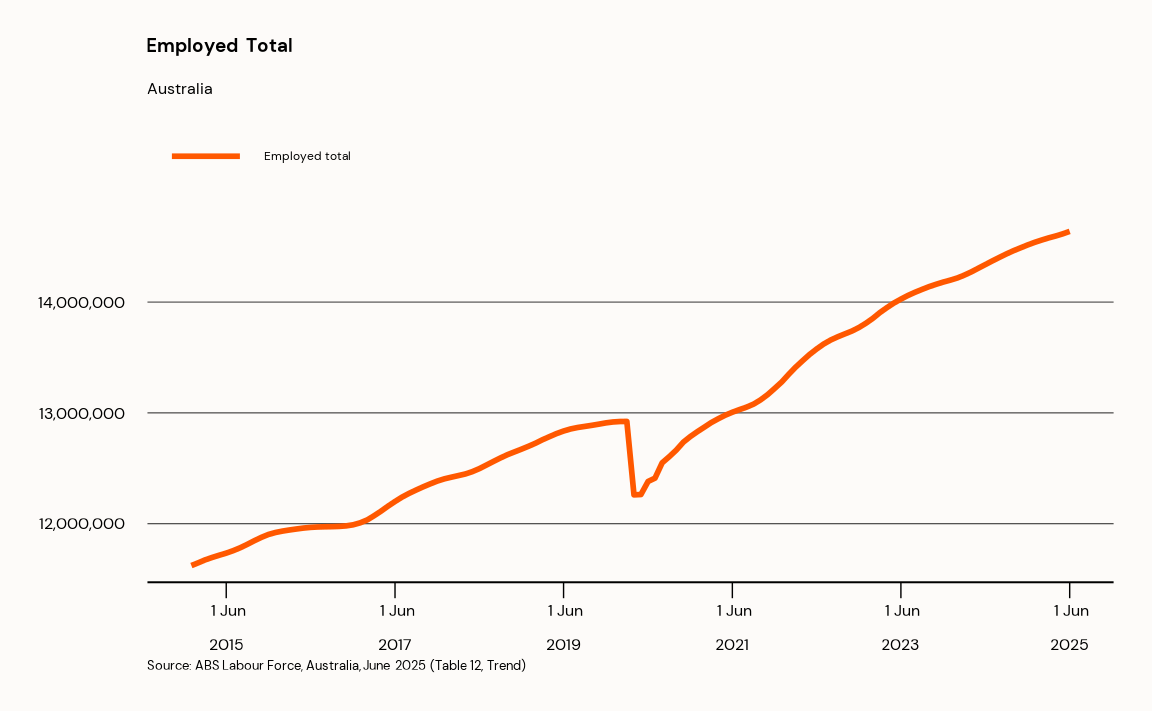
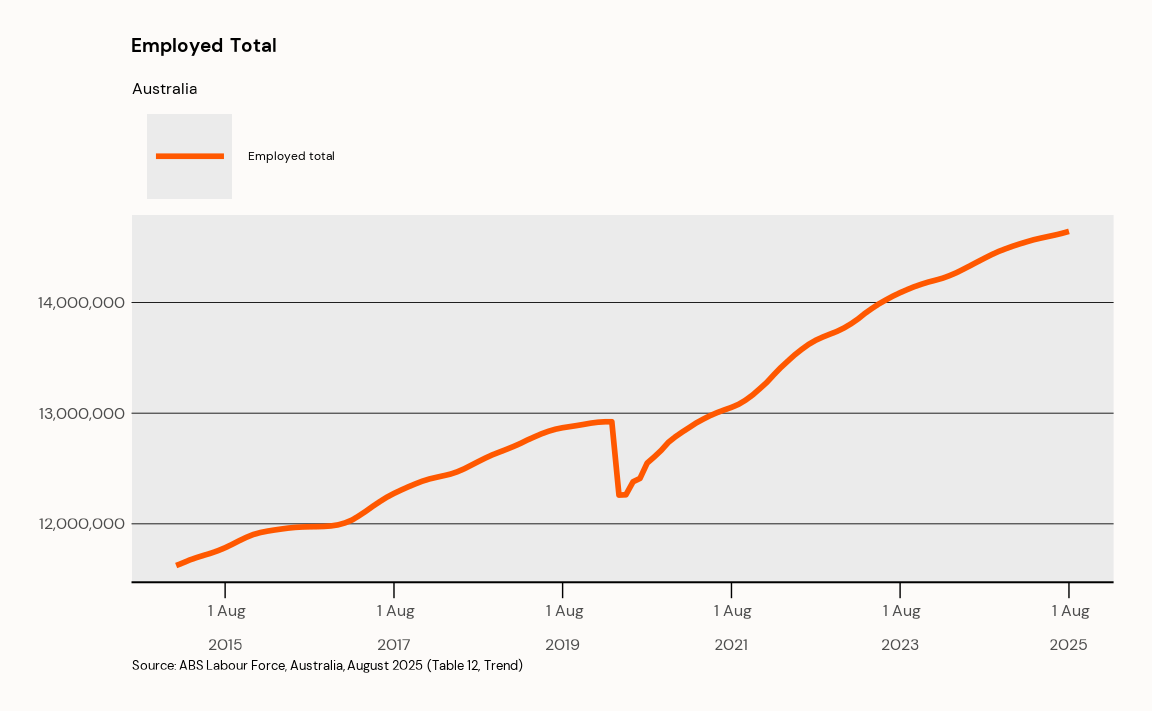
Deploying to gh-pages from @ amwu-nrc/reportabs@0d1d19ab23d6390500568992baa6a73c0621bae3 🚀

diff --git a/reference/value_at.html b/reference/value_at.html
@@ -75,22 +75,22 @@ If only at_year is specified, the value is averaged over the year (Not yet imple
     <h2 id="ref-examples">Examples<a class="anchor" aria-label="anchor" href="#ref-examples"></a></h2>
     <div class="sourceCode"><pre class="sourceCode r"><code><span class="r-in"><span><span class="kw"><a href="https://rdrr.io/r/base/library.html" class="external-link">library</a></span><span class="op">(</span><span class="va"><a href="https://amwu-nrc.github.io/reportabs/">reportabs</a></span><span class="op">)</span></span></span>
 <span class="r-in"><span><span class="va">labour_force_briefing</span> <span class="op">&lt;-</span> <span class="fu"><a href="read_absdata.html">read_absdata</a></span><span class="op">(</span><span class="st">"labour_force_briefing"</span><span class="op">)</span></span></span>
-<span class="r-msg co"><span class="r-pr">#&gt;</span> Reading labour_force_briefing file found in /tmp/RtmpaxwHL6</span>
+<span class="r-msg co"><span class="r-pr">#&gt;</span> Reading labour_force_briefing file found in /tmp/RtmpSPTwHF</span>
 <span class="r-in"><span><span class="fu">value_at</span><span class="op">(</span><span class="va">labour_force_briefing</span> , filter_with <span class="op">=</span> <span class="fu"><a href="https://rdrr.io/r/base/list.html" class="external-link">list</a></span><span class="op">(</span>indicator <span class="op">=</span> <span class="st">"Employed total"</span><span class="op">)</span><span class="op">)</span></span></span>
-<span class="r-msg co"><span class="r-pr">#&gt;</span> → No year or month specified. Returning data for 2025 June</span>
+<span class="r-msg co"><span class="r-pr">#&gt;</span> → No year or month specified. Returning data for 2025 August</span>
 <span class="r-out co"><span class="r-pr">#&gt;</span> <span style="color: #949494;"># A tibble: 27 × 7</span></span>
 <span class="r-out co"><span class="r-pr">#&gt;</span>    date       sex     state             series_type       unit  indicator  value</span>
 <span class="r-out co"><span class="r-pr">#&gt;</span>    <span style="color: #949494; font-style: italic;">&lt;date&gt;</span>     <span style="color: #949494; font-style: italic;">&lt;chr&gt;</span>   <span style="color: #949494; font-style: italic;">&lt;chr&gt;</span>             <span style="color: #949494; font-style: italic;">&lt;chr&gt;</span>             <span style="color: #949494; font-style: italic;">&lt;chr&gt;</span> <span style="color: #949494; font-style: italic;">&lt;chr&gt;</span>      <span style="color: #949494; font-style: italic;">&lt;dbl&gt;</span></span>
-<span class="r-out co"><span class="r-pr">#&gt;</span> <span style="color: #BCBCBC;"> 1</span> 2025-06-01 Persons Australia         Seasonally Adjus… 000   Employed… <span style="text-decoration: underline;">14</span>619.</span>
-<span class="r-out co"><span class="r-pr">#&gt;</span> <span style="color: #BCBCBC;"> 2</span> 2025-06-01 Persons New South Wales   Seasonally Adjus… 000   Employed…  <span style="text-decoration: underline;">4</span>475.</span>
-<span class="r-out co"><span class="r-pr">#&gt;</span> <span style="color: #BCBCBC;"> 3</span> 2025-06-01 Persons Victoria          Seasonally Adjus… 000   Employed…  <span style="text-decoration: underline;">3</span>792.</span>
-<span class="r-out co"><span class="r-pr">#&gt;</span> <span style="color: #BCBCBC;"> 4</span> 2025-06-01 Persons Queensland        Seasonally Adjus… 000   Employed…  <span style="text-decoration: underline;">3</span>004.</span>
-<span class="r-out co"><span class="r-pr">#&gt;</span> <span style="color: #BCBCBC;"> 5</span> 2025-06-01 Persons South Australia   Seasonally Adjus… 000   Employed…   977.</span>
-<span class="r-out co"><span class="r-pr">#&gt;</span> <span style="color: #BCBCBC;"> 6</span> 2025-06-01 Persons Western Australia Seasonally Adjus… 000   Employed…  <span style="text-decoration: underline;">1</span>656.</span>
-<span class="r-out co"><span class="r-pr">#&gt;</span> <span style="color: #BCBCBC;"> 7</span> 2025-06-01 Persons Tasmania          Seasonally Adjus… 000   Employed…   284.</span>
-<span class="r-out co"><span class="r-pr">#&gt;</span> <span style="color: #BCBCBC;"> 8</span> 2025-06-01 Males   Australia         Seasonally Adjus… 000   Employed…  <span style="text-decoration: underline;">7</span>601.</span>
-<span class="r-out co"><span class="r-pr">#&gt;</span> <span style="color: #BCBCBC;"> 9</span> 2025-06-01 Males   New South Wales   Seasonally Adjus… 000   Employed…  <span style="text-decoration: underline;">2</span>339.</span>
-<span class="r-out co"><span class="r-pr">#&gt;</span> <span style="color: #BCBCBC;">10</span> 2025-06-01 Males   Victoria          Seasonally Adjus… 000   Employed…  <span style="text-decoration: underline;">1</span>963.</span>
+<span class="r-out co"><span class="r-pr">#&gt;</span> <span style="color: #BCBCBC;"> 1</span> 2025-08-01 Persons Australia         Seasonally Adjus… 000   Employed… <span style="text-decoration: underline;">14</span>627.</span>
+<span class="r-out co"><span class="r-pr">#&gt;</span> <span style="color: #BCBCBC;"> 2</span> 2025-08-01 Persons New South Wales   Seasonally Adjus… 000   Employed…  <span style="text-decoration: underline;">4</span>463.</span>
+<span class="r-out co"><span class="r-pr">#&gt;</span> <span style="color: #BCBCBC;"> 3</span> 2025-08-01 Persons Victoria          Seasonally Adjus… 000   Employed…  <span style="text-decoration: underline;">3</span>818.</span>
+<span class="r-out co"><span class="r-pr">#&gt;</span> <span style="color: #BCBCBC;"> 4</span> 2025-08-01 Persons Queensland        Seasonally Adjus… 000   Employed…  <span style="text-decoration: underline;">2</span>994.</span>
+<span class="r-out co"><span class="r-pr">#&gt;</span> <span style="color: #BCBCBC;"> 5</span> 2025-08-01 Persons South Australia   Seasonally Adjus… 000   Employed…   981.</span>
+<span class="r-out co"><span class="r-pr">#&gt;</span> <span style="color: #BCBCBC;"> 6</span> 2025-08-01 Persons Western Australia Seasonally Adjus… 000   Employed…  <span style="text-decoration: underline;">1</span>640.</span>
+<span class="r-out co"><span class="r-pr">#&gt;</span> <span style="color: #BCBCBC;"> 7</span> 2025-08-01 Persons Tasmania          Seasonally Adjus… 000   Employed…   287.</span>
+<span class="r-out co"><span class="r-pr">#&gt;</span> <span style="color: #BCBCBC;"> 8</span> 2025-08-01 Males   Australia         Seasonally Adjus… 000   Employed…  <span style="text-decoration: underline;">7</span>587.</span>
+<span class="r-out co"><span class="r-pr">#&gt;</span> <span style="color: #BCBCBC;"> 9</span> 2025-08-01 Males   New South Wales   Seasonally Adjus… 000   Employed…  <span style="text-decoration: underline;">2</span>316.</span>
+<span class="r-out co"><span class="r-pr">#&gt;</span> <span style="color: #BCBCBC;">10</span> 2025-08-01 Males   Victoria          Seasonally Adjus… 000   Employed…  <span style="text-decoration: underline;">1</span>976.</span>
 <span class="r-out co"><span class="r-pr">#&gt;</span> <span style="color: #949494;"># ℹ 17 more rows</span></span>
 <span class="r-in"><span></span></span>
 </code></pre></div>

diff --git a/reference/current.html b/reference/current.html
@@ -71,22 +71,22 @@ gender, age, indicator, and series type.</p></dd>
     <h2 id="ref-examples">Examples<a class="anchor" aria-label="anchor" href="#ref-examples"></a></h2>
     <div class="sourceCode"><pre class="sourceCode r"><code><span class="r-in"><span><span class="kw"><a href="https://rdrr.io/r/base/library.html" class="external-link">library</a></span><span class="op">(</span><span class="va"><a href="https://amwu-nrc.github.io/reportabs/">reportabs</a></span><span class="op">)</span></span></span>
 <span class="r-in"><span><span class="va">labour_force_briefing</span> <span class="op">&lt;-</span> <span class="fu"><a href="read_absdata.html">read_absdata</a></span><span class="op">(</span><span class="st">"labour_force_briefing"</span><span class="op">)</span></span></span>
-<span class="r-msg co"><span class="r-pr">#&gt;</span> Reading labour_force_briefing file found in /tmp/RtmpaxwHL6</span>
+<span class="r-msg co"><span class="r-pr">#&gt;</span> Reading labour_force_briefing file found in /tmp/RtmpSPTwHF</span>
 <span class="r-in"><span><span class="fu">current</span><span class="op">(</span><span class="va">labour_force_briefing</span>, <span class="fu"><a href="https://rdrr.io/r/base/list.html" class="external-link">list</a></span><span class="op">(</span>indicator <span class="op">=</span> <span class="st">"Employed total"</span>,</span></span>
 <span class="r-in"><span>series_type <span class="op">=</span> <span class="st">"Seasonally Adjusted"</span><span class="op">)</span><span class="op">)</span></span></span>
 <span class="r-out co"><span class="r-pr">#&gt;</span> <span style="color: #949494;"># A tibble: 27 × 7</span></span>
 <span class="r-out co"><span class="r-pr">#&gt;</span>    date       sex     state             series_type       unit  indicator  value</span>
 <span class="r-out co"><span class="r-pr">#&gt;</span>    <span style="color: #949494; font-style: italic;">&lt;date&gt;</span>     <span style="color: #949494; font-style: italic;">&lt;chr&gt;</span>   <span style="color: #949494; font-style: italic;">&lt;chr&gt;</span>             <span style="color: #949494; font-style: italic;">&lt;chr&gt;</span>             <span style="color: #949494; font-style: italic;">&lt;chr&gt;</span> <span style="color: #949494; font-style: italic;">&lt;chr&gt;</span>      <span style="color: #949494; font-style: italic;">&lt;dbl&gt;</span></span>
-<span class="r-out co"><span class="r-pr">#&gt;</span> <span style="color: #BCBCBC;"> 1</span> 2025-06-01 Persons Australia         Seasonally Adjus… 000   Employed… <span style="text-decoration: underline;">14</span>619.</span>
-<span class="r-out co"><span class="r-pr">#&gt;</span> <span style="color: #BCBCBC;"> 2</span> 2025-06-01 Persons New South Wales   Seasonally Adjus… 000   Employed…  <span style="text-decoration: underline;">4</span>475.</span>
-<span class="r-out co"><span class="r-pr">#&gt;</span> <span style="color: #BCBCBC;"> 3</span> 2025-06-01 Persons Victoria          Seasonally Adjus… 000   Employed…  <span style="text-decoration: underline;">3</span>792.</span>
-<span class="r-out co"><span class="r-pr">#&gt;</span> <span style="color: #BCBCBC;"> 4</span> 2025-06-01 Persons Queensland        Seasonally Adjus… 000   Employed…  <span style="text-decoration: underline;">3</span>004.</span>
-<span class="r-out co"><span class="r-pr">#&gt;</span> <span style="color: #BCBCBC;"> 5</span> 2025-06-01 Persons South Australia   Seasonally Adjus… 000   Employed…   977.</span>
-<span class="r-out co"><span class="r-pr">#&gt;</span> <span style="color: #BCBCBC;"> 6</span> 2025-06-01 Persons Western Australia Seasonally Adjus… 000   Employed…  <span style="text-decoration: underline;">1</span>656.</span>
-<span class="r-out co"><span class="r-pr">#&gt;</span> <span style="color: #BCBCBC;"> 7</span> 2025-06-01 Persons Tasmania          Seasonally Adjus… 000   Employed…   284.</span>
-<span class="r-out co"><span class="r-pr">#&gt;</span> <span style="color: #BCBCBC;"> 8</span> 2025-06-01 Males   Australia         Seasonally Adjus… 000   Employed…  <span style="text-decoration: underline;">7</span>601.</span>
-<span class="r-out co"><span class="r-pr">#&gt;</span> <span style="color: #BCBCBC;"> 9</span> 2025-06-01 Males   New South Wales   Seasonally Adjus… 000   Employed…  <span style="text-decoration: underline;">2</span>339.</span>
-<span class="r-out co"><span class="r-pr">#&gt;</span> <span style="color: #BCBCBC;">10</span> 2025-06-01 Males   Victoria          Seasonally Adjus… 000   Employed…  <span style="text-decoration: underline;">1</span>963.</span>
+<span class="r-out co"><span class="r-pr">#&gt;</span> <span style="color: #BCBCBC;"> 1</span> 2025-08-01 Persons Australia         Seasonally Adjus… 000   Employed… <span style="text-decoration: underline;">14</span>627.</span>
+<span class="r-out co"><span class="r-pr">#&gt;</span> <span style="color: #BCBCBC;"> 2</span> 2025-08-01 Persons New South Wales   Seasonally Adjus… 000   Employed…  <span style="text-decoration: underline;">4</span>463.</span>
+<span class="r-out co"><span class="r-pr">#&gt;</span> <span style="color: #BCBCBC;"> 3</span> 2025-08-01 Persons Victoria          Seasonally Adjus… 000   Employed…  <span style="text-decoration: underline;">3</span>818.</span>
+<span class="r-out co"><span class="r-pr">#&gt;</span> <span style="color: #BCBCBC;"> 4</span> 2025-08-01 Persons Queensland        Seasonally Adjus… 000   Employed…  <span style="text-decoration: underline;">2</span>994.</span>
+<span class="r-out co"><span class="r-pr">#&gt;</span> <span style="color: #BCBCBC;"> 5</span> 2025-08-01 Persons South Australia   Seasonally Adjus… 000   Employed…   981.</span>
+<span class="r-out co"><span class="r-pr">#&gt;</span> <span style="color: #BCBCBC;"> 6</span> 2025-08-01 Persons Western Australia Seasonally Adjus… 000   Employed…  <span style="text-decoration: underline;">1</span>640.</span>
+<span class="r-out co"><span class="r-pr">#&gt;</span> <span style="color: #BCBCBC;"> 7</span> 2025-08-01 Persons Tasmania          Seasonally Adjus… 000   Employed…   287.</span>
+<span class="r-out co"><span class="r-pr">#&gt;</span> <span style="color: #BCBCBC;"> 8</span> 2025-08-01 Males   Australia         Seasonally Adjus… 000   Employed…  <span style="text-decoration: underline;">7</span>587.</span>
+<span class="r-out co"><span class="r-pr">#&gt;</span> <span style="color: #BCBCBC;"> 9</span> 2025-08-01 Males   New South Wales   Seasonally Adjus… 000   Employed…  <span style="text-decoration: underline;">2</span>316.</span>
+<span class="r-out co"><span class="r-pr">#&gt;</span> <span style="color: #BCBCBC;">10</span> 2025-08-01 Males   Victoria          Seasonally Adjus… 000   Employed…  <span style="text-decoration: underline;">1</span>976.</span>
 <span class="r-out co"><span class="r-pr">#&gt;</span> <span style="color: #949494;"># ℹ 17 more rows</span></span>
 <span class="r-in"><span></span></span>
 </code></pre></div>

diff --git a/articles/reporting.html b/articles/reporting.html
@@ -75,13 +75,13 @@
 <div class="cell">
 <div class="sourceCode cell-code" id="cb2"><pre class="downlit sourceCode r">
 <code class="sourceCode R"><span><span class="fu"><a href="../reference/average_over.html">average_over</a></span><span class="op">(</span>data <span class="op">=</span> <span class="va">labour_force</span>, filter_with <span class="op">=</span> <span class="fu"><a href="https://rdrr.io/r/base/list.html" class="external-link">list</a></span><span class="op">(</span>indicator <span class="op">=</span> <span class="st">"Employed total"</span><span class="op">)</span>, between <span class="op">=</span> <span class="fu"><a href="https://rdrr.io/r/base/c.html" class="external-link">c</a></span><span class="op">(</span><span class="st">"2010-01-01"</span>, <span class="st">"2020-01-01"</span><span class="op">)</span><span class="op">)</span></span>
-<span><span class="co">#&gt; [1] 1902.559</span></span></code></pre></div>
+<span><span class="co">#&gt; [1] 1902.569</span></span></code></pre></div>
 </div>
 <div class="cell">
 <div class="sourceCode cell-code" id="cb3"><pre class="downlit sourceCode r">
 <code class="sourceCode R"><span><span class="fu"><a href="../reference/change.html">change</a></span><span class="op">(</span>data <span class="op">=</span> <span class="va">labour_force</span>, filter_with <span class="op">=</span> <span class="fu"><a href="https://rdrr.io/r/base/list.html" class="external-link">list</a></span><span class="op">(</span>indicator <span class="op">=</span> <span class="st">"Employed total"</span><span class="op">)</span><span class="op">)</span></span>
 <span><span class="co">#&gt; Warning: implied series_type = 'Trend'</span></span>
-<span><span class="co">#&gt; [1] "increased by 299 (2.0%) to 14,638"</span></span></code></pre></div>
+<span><span class="co">#&gt; [1] "increased by 242 (1.7%) to 14,643"</span></span></code></pre></div>
 </div>
 <p>Numbers can be formatted nicely for inclusion in documents using <code><a href="../reference/as_comma.html">as_comma()</a></code>, <code><a href="../reference/as_percent.html">as_percent()</a></code> and <code><a href="../reference/as_percentage_point.html">as_percentage_point()</a></code>.</p>
 

diff --git a/reference/change.html b/reference/change.html
@@ -96,10 +96,10 @@ be specified to calculate the change between the current value, and the value as
     <h2 id="ref-examples">Examples<a class="anchor" aria-label="anchor" href="#ref-examples"></a></h2>
     <div class="sourceCode"><pre class="sourceCode r"><code><span class="r-in"><span><span class="kw"><a href="https://rdrr.io/r/base/library.html" class="external-link">library</a></span><span class="op">(</span><span class="va"><a href="https://amwu-nrc.github.io/reportabs/">reportabs</a></span><span class="op">)</span></span></span>
 <span class="r-in"><span><span class="va">labour_force_briefing</span> <span class="op">&lt;-</span> <span class="fu"><a href="read_absdata.html">read_absdata</a></span><span class="op">(</span><span class="st">"labour_force_briefing"</span><span class="op">)</span></span></span>
-<span class="r-msg co"><span class="r-pr">#&gt;</span> Reading labour_force_briefing file found in /tmp/RtmpaxwHL6</span>
+<span class="r-msg co"><span class="r-pr">#&gt;</span> Reading labour_force_briefing file found in /tmp/RtmpSPTwHF</span>
 <span class="r-in"><span><span class="fu">change</span><span class="op">(</span><span class="va">labour_force_briefing</span>,</span></span>
 <span class="r-in"><span>filter_with <span class="op">=</span> <span class="fu"><a href="https://rdrr.io/r/base/list.html" class="external-link">list</a></span><span class="op">(</span>indicator <span class="op">=</span> <span class="st">"Employed total"</span>, series_type <span class="op">=</span> <span class="st">"Seasonally Adjusted"</span><span class="op">)</span><span class="op">)</span></span></span>
-<span class="r-out co"><span class="r-pr">#&gt;</span> [1] "increased by 286 (2.0%) to 14,619"</span>
+<span class="r-out co"><span class="r-pr">#&gt;</span> [1] "increased by 217 (1.5%) to 14,626"</span>
 </code></pre></div>
     </div>
   </main><aside class="col-md-3"><nav id="toc" aria-label="Table of contents"><h2>On this page</h2>

diff --git a/reference/last_value.html b/reference/last_value.html
@@ -75,10 +75,10 @@ gender, age, indicator, and series type.</p></dd>
     <h2 id="ref-examples">Examples<a class="anchor" aria-label="anchor" href="#ref-examples"></a></h2>
     <div class="sourceCode"><pre class="sourceCode r"><code><span class="r-in"><span><span class="kw"><a href="https://rdrr.io/r/base/library.html" class="external-link">library</a></span><span class="op">(</span><span class="va"><a href="https://amwu-nrc.github.io/reportabs/">reportabs</a></span><span class="op">)</span></span></span>
 <span class="r-in"><span><span class="va">labour_force_briefing</span> <span class="op">&lt;-</span> <span class="fu"><a href="read_absdata.html">read_absdata</a></span><span class="op">(</span><span class="st">"labour_force_briefing"</span><span class="op">)</span></span></span>
-<span class="r-msg co"><span class="r-pr">#&gt;</span> Reading labour_force_briefing file found in /tmp/RtmpaxwHL6</span>
+<span class="r-msg co"><span class="r-pr">#&gt;</span> Reading labour_force_briefing file found in /tmp/RtmpSPTwHF</span>
 <span class="r-in"><span><span class="fu">last_value</span><span class="op">(</span><span class="va">labour_force_briefing</span>, <span class="fu"><a href="https://rdrr.io/r/base/list.html" class="external-link">list</a></span><span class="op">(</span>indicator <span class="op">=</span> <span class="st">"Employed total"</span>,</span></span>
 <span class="r-in"><span>series_type <span class="op">=</span> <span class="st">"Seasonally Adjusted"</span><span class="op">)</span><span class="op">)</span></span></span>
-<span class="r-out co"><span class="r-pr">#&gt;</span> [1] "14,333"</span>
+<span class="r-out co"><span class="r-pr">#&gt;</span> [1] "14,409"</span>
 </code></pre></div>
     </div>
   </main><aside class="col-md-3"><nav id="toc" aria-label="Table of contents"><h2>On this page</h2>
